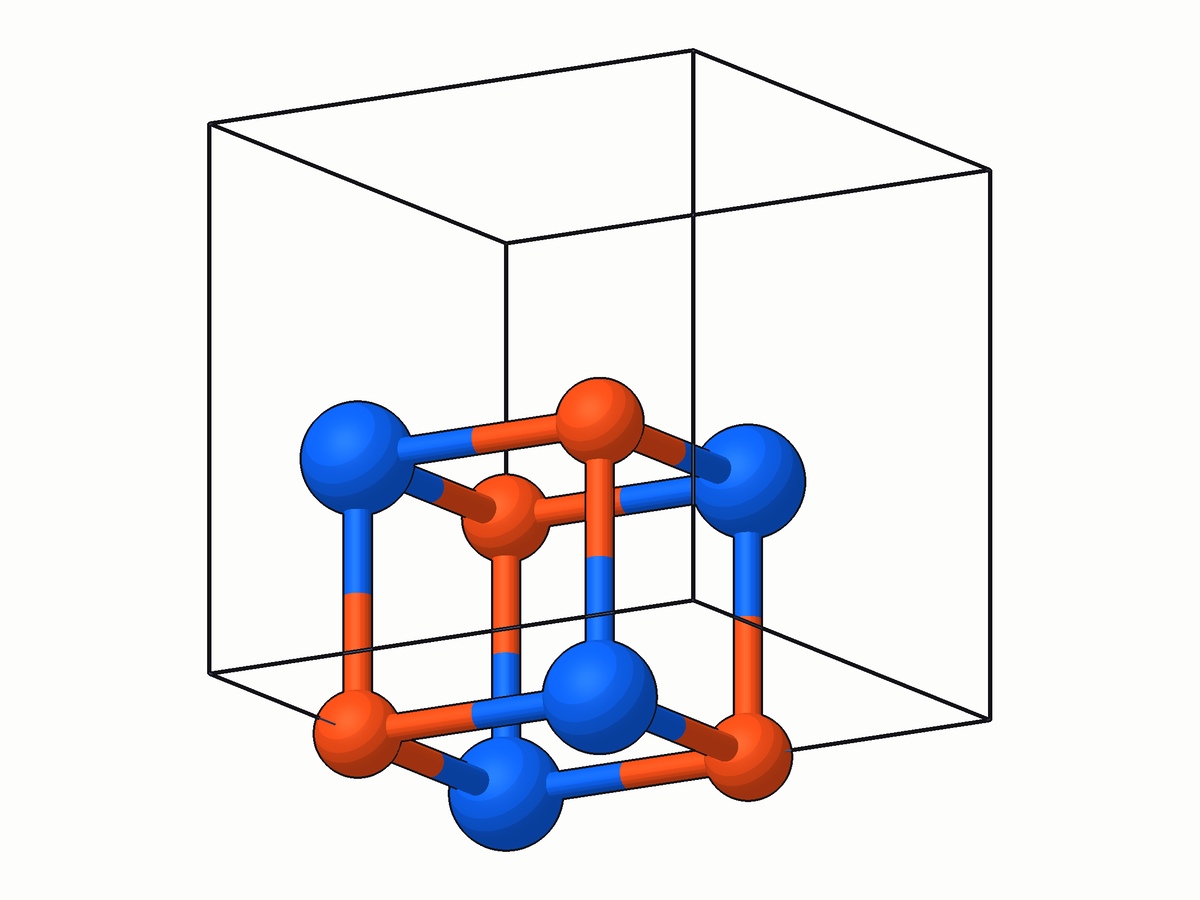
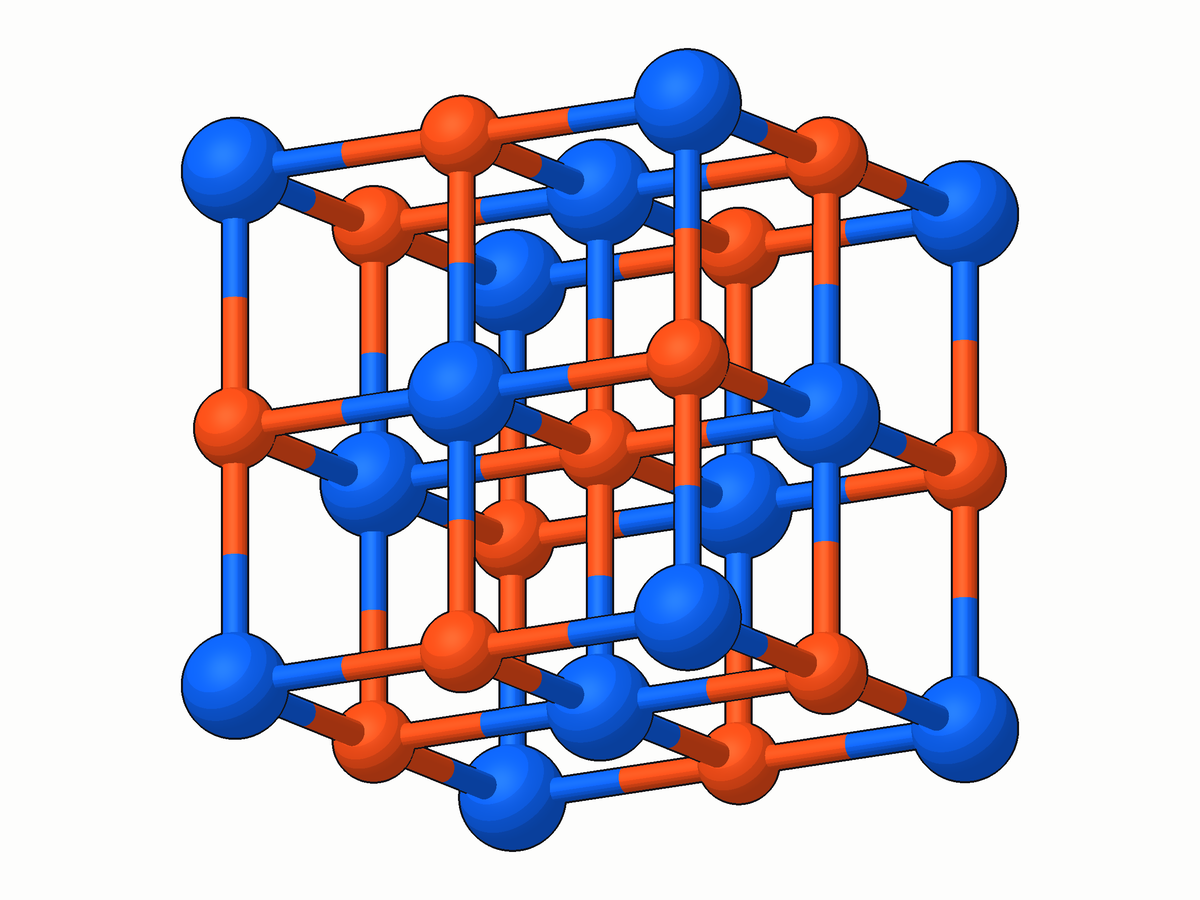
profold: a crystal fills its cell
With the cell shown, a crystal file (CIF, VASP, XSF) also draws the
periodic copies of atoms that sit on the cell's faces, edges and
corners, so rock salt's eight atoms, all in one corner, become the
27-atom cube. The copies are only drawn: atom counts, formula and
colours stay with the structure's own atoms. Proteins, molecules,
simulation boxes and trajectories are left exactly as they were, and
a test holds them to it.

diff --git a/src/render.rs b/src/render.rs
@@ -980,11 +980,24 @@ struct Paint<'a> {
     polymer: bool,
     /// Size and opacity, per atom.
     looks: Vec<Look>,
+    /// How many atoms are the structure's own; past them come the boundary
+    /// copies of a crystal, each repeating the atom `images` names.
+    own: usize,
+    images: Vec<u32>,
 }
 
 impl Paint<'_> {
     fn residue(&self, residue: usize) -> [f32; 3] {
         residue_color(self.s, residue, self.coloring, self.palette)
+    }
+
+    /// The structure's own atom that atom `i` is, or is a copy of.
+    fn source(&self, i: usize) -> usize {
+        if i < self.own {
+            i
+        } else {
+            self.images[i - self.own] as usize
+        }
     }
 
     fn atom(&self, i: usize) -> [f32; 3] {
@@ -996,7 +1009,7 @@ impl Paint<'_> {
             Coloring::Element => self.palette.chain(a.kind as usize),
             Coloring::Rainbow if !self.polymer => self
                 .palette
-                .ramp(i as f32 / (self.s.atoms.len().max(2) - 1) as f32),
+                .ramp(self.source(i) as f32 / (self.own.max(2) - 1) as f32),
             // Without chains, each molecule is told apart instead.
             Coloring::Chain if !self.polymer => self.palette.chain(a.residue as usize),
             _ => self.residue(a.residue as usize),
@@ -1044,13 +1057,24 @@ pub fn build_scene(
     cell: bool,
     appearance: &Appearance,
 ) -> Scene {
+    // Colours are settled on the structure's own atoms, so showing the cell
+    // and its boundary copies does not reshuffle them.
+    let elements = element_colors(s, palette, fixed_colors);
+    let own = s.atoms.len();
+    let filled = if cell { with_boundary(s) } else { None };
+    let (s, images) = match &filled {
+        Some((filled, images)) => (filled, images.clone()),
+        None => (s, Vec::new()),
+    };
     let paint = Paint {
         s,
-        elements: element_colors(s, palette, fixed_colors),
+        elements,
         coloring,
         palette,
         polymer: s.has_polymer(),
         looks: appearance.resolve(s),
+        own,
+        images,
     };
     let mut scene = build_primitives(&paint, repr, quality);
     if cell {
@@ -1208,6 +1232,75 @@ fn build_sticks(paint: &Paint, keep: &[bool], licorice: bool) -> Scene {
 }
 
 /// The edges of the simulation cell, as fine dark rods sized to the box.
+/// A crystal with the periodic copies of its atoms that fall on the cell's far
+/// faces, edges and corners, so the cell is drawn full the way crystallographers
+/// draw it: rock salt's eight atoms, all in one corner of the cell, become the
+/// familiar cube of twenty-seven. Also returned, the atom each copy repeats.
+///
+/// Only for crystal files read as one structure. A simulation box's atoms are
+/// not on lattice sites, a protein's cell is not drawn, and the copies of a
+/// trajectory would have to follow it frame by frame.
+fn with_boundary(s: &Structure) -> Option<(Structure, Vec<u32>)> {
+    /// Within this fraction of a cell edge counts as on the face.
+    const ON: f32 = 1e-3;
+    const LIMIT: usize = 100_000;
+    let c = s.cell?;
+    let crystal = matches!(s.format, Some("CIF" | "VASP" | "XSF"));
+    if !crystal || s.has_polymer() || s.frame_count() > 1 || s.atoms.len() > LIMIT {
+        return None;
+    }
+    let [a, b, cv] = c.vectors;
+    let (bc, ca, ab) = (cross(b, cv), cross(cv, a), cross(a, b));
+    let det = dot(a, bc);
+    if det.abs() < 1e-9 {
+        return None;
+    }
+
+    let mut out = s.clone();
+    let mut images = Vec::new();
+    for (i, atom) in s.atoms.iter().enumerate() {
+        let d = sub(atom.pos, c.origin);
+        let f = [dot(d, bc) / det, dot(d, ca) / det, dot(d, ab) / det];
+        // The shifts along each edge that land on the cell: none, and one
+        // across when the atom sits on a face.
+        let shifts = f.map(|x| {
+            if x.abs() < ON {
+                [0.0, 1.0]
+            } else if (x - 1.0).abs() < ON {
+                [0.0, -1.0]
+            } else {
+                [0.0, 0.0]
+            }
+        });
+        for n in 1..8 {
+            let t = [
+                shifts[0][n & 1],
+                shifts[1][(n >> 1) & 1],
+                shifts[2][(n >> 2) & 1],
+            ];
+            // A shift of zero on a bit that asked for one is a repeat of a
+            // smaller combination, already made.
+            if (0..3).any(|k| (n >> k) & 1 == 1 && t[k] == 0.0) {
+                continue;
+            }
+            let mut copy = atom.clone();
+            for k in 0..3 {
+                copy.pos[k] += t[0] * a[k] + t[1] * b[k] + t[2] * cv[k];
+            }
+            out.atoms.push(copy);
+            images.push(i as u32);
+        }
+    }
+    if images.is_empty() {
+        return None;
+    }
+    // The structure's own bonds stand; the copies take theirs from distance.
+    let own = s.atoms.len() as u32;
+    out.bonds
+        .extend(crate::bonds::infer(&out.atoms).into_iter().filter(|&[x, y]| x >= own || y >= own));
+    Some((out, images))
+}
+
 fn cell_edges(cell: &crate::protein::Cell) -> Vec<Capsule> {
     const EDGE: [f32; 3] = [0.30, 0.31, 0.34];
     let longest = cell.lengths().into_iter().fold(0.0f32, f32::max);
@@ -2327,6 +2420,72 @@ mod tests {
     fn pixel(f: &Frame, x: usize, y: usize) -> [u8; 3] {
         let o = (y * f.width + x) * 4;
         [f.bgra[o + 2], f.bgra[o + 1], f.bgra[o]]
+    }
+
+    fn sample(name: &str) -> Structure {
+        let path = std::path::Path::new(env!("CARGO_MANIFEST_DIR")).join("samples").join(name);
+        crate::formats::load_bytes(name, std::fs::read(path).unwrap()).unwrap()
+    }
+
+    fn scene(s: &Structure, repr: Repr, coloring: Coloring, cell: bool) -> Scene {
+        build_scene(
+            s, repr, coloring, 1.0, Style::Soft, Palette::Spectrum, false, cell,
+            &Appearance::default(),
+        )
+    }
+
+    #[test]
+    fn a_crystal_fills_its_cell() {
+        let s = sample("rocksalt.cif");
+        assert_eq!(s.atoms.len(), 8);
+        let bare = scene(&s, Repr::BallAndStick, Coloring::Element, false);
+        let full = scene(&s, Repr::BallAndStick, Coloring::Element, true);
+        assert_eq!(bare.spheres.len(), 8);
+        // Fourteen sodium on the corners and faces, thirteen chloride on the
+        // edges and at the centre.
+        assert_eq!(full.spheres.len(), 27);
+        // Every Na-Cl contact in the cube: nine lines of three atoms along
+        // each axis, two bonds to a line, each bond drawn as two halves.
+        assert_eq!(full.capsules.len() - 12, 54 * 2);
+        // Every atom lies within the cell.
+        let c = s.cell.unwrap();
+        let edge = c.lengths()[0];
+        for p in &full.spheres {
+            for k in 0..3 {
+                let x = p.c[k] - c.origin[k];
+                assert!((-1e-3..=edge + 1e-3).contains(&x), "an atom left the cell: {:?}", p.c);
+            }
+        }
+        // The copies wear their originals' colours, and the colours do not
+        // change when the cell is shown.
+        let colours = |sc: &Scene| {
+            let mut v: Vec<[u32; 3]> = sc.spheres.iter().map(|p| p.color.map(f32::to_bits)).collect();
+            v.sort();
+            v.dedup();
+            v
+        };
+        assert_eq!(colours(&bare), colours(&full));
+        // The structure itself is untouched.
+        assert_eq!(s.atoms.len(), 8);
+    }
+
+    #[test]
+    fn only_crystals_take_boundary_copies() {
+        // Proteins, molecules and simulation boxes draw the same atoms with
+        // the cell shown as without; at most the cell's twelve edges are added.
+        for name in ["1crn.pdb.gz", "caffeine.sdf", "c60.xyz", "lj-melt.lammpstrj.gz"] {
+            let s = sample(name);
+            for repr in [Repr::Spacefill, Repr::BallAndStick, Repr::Licorice, Repr::Cartoon] {
+                for coloring in [Coloring::Element, Coloring::Rainbow, Coloring::Chain] {
+                    let bare = scene(&s, repr, coloring, false);
+                    let full = scene(&s, repr, coloring, true);
+                    assert_eq!(bare.spheres.len(), full.spheres.len(), "{name} {repr:?}");
+                    assert!(bare.spheres.iter().zip(&full.spheres).all(|(a, b)| a.c == b.c && a.color == b.color));
+                    let edges = if s.cell.is_some() { 12 } else { 0 };
+                    assert_eq!(full.capsules.len(), bare.capsules.len() + edges, "{name} {repr:?}");
+                }
+            }
+        }
     }
 
     #[test]
